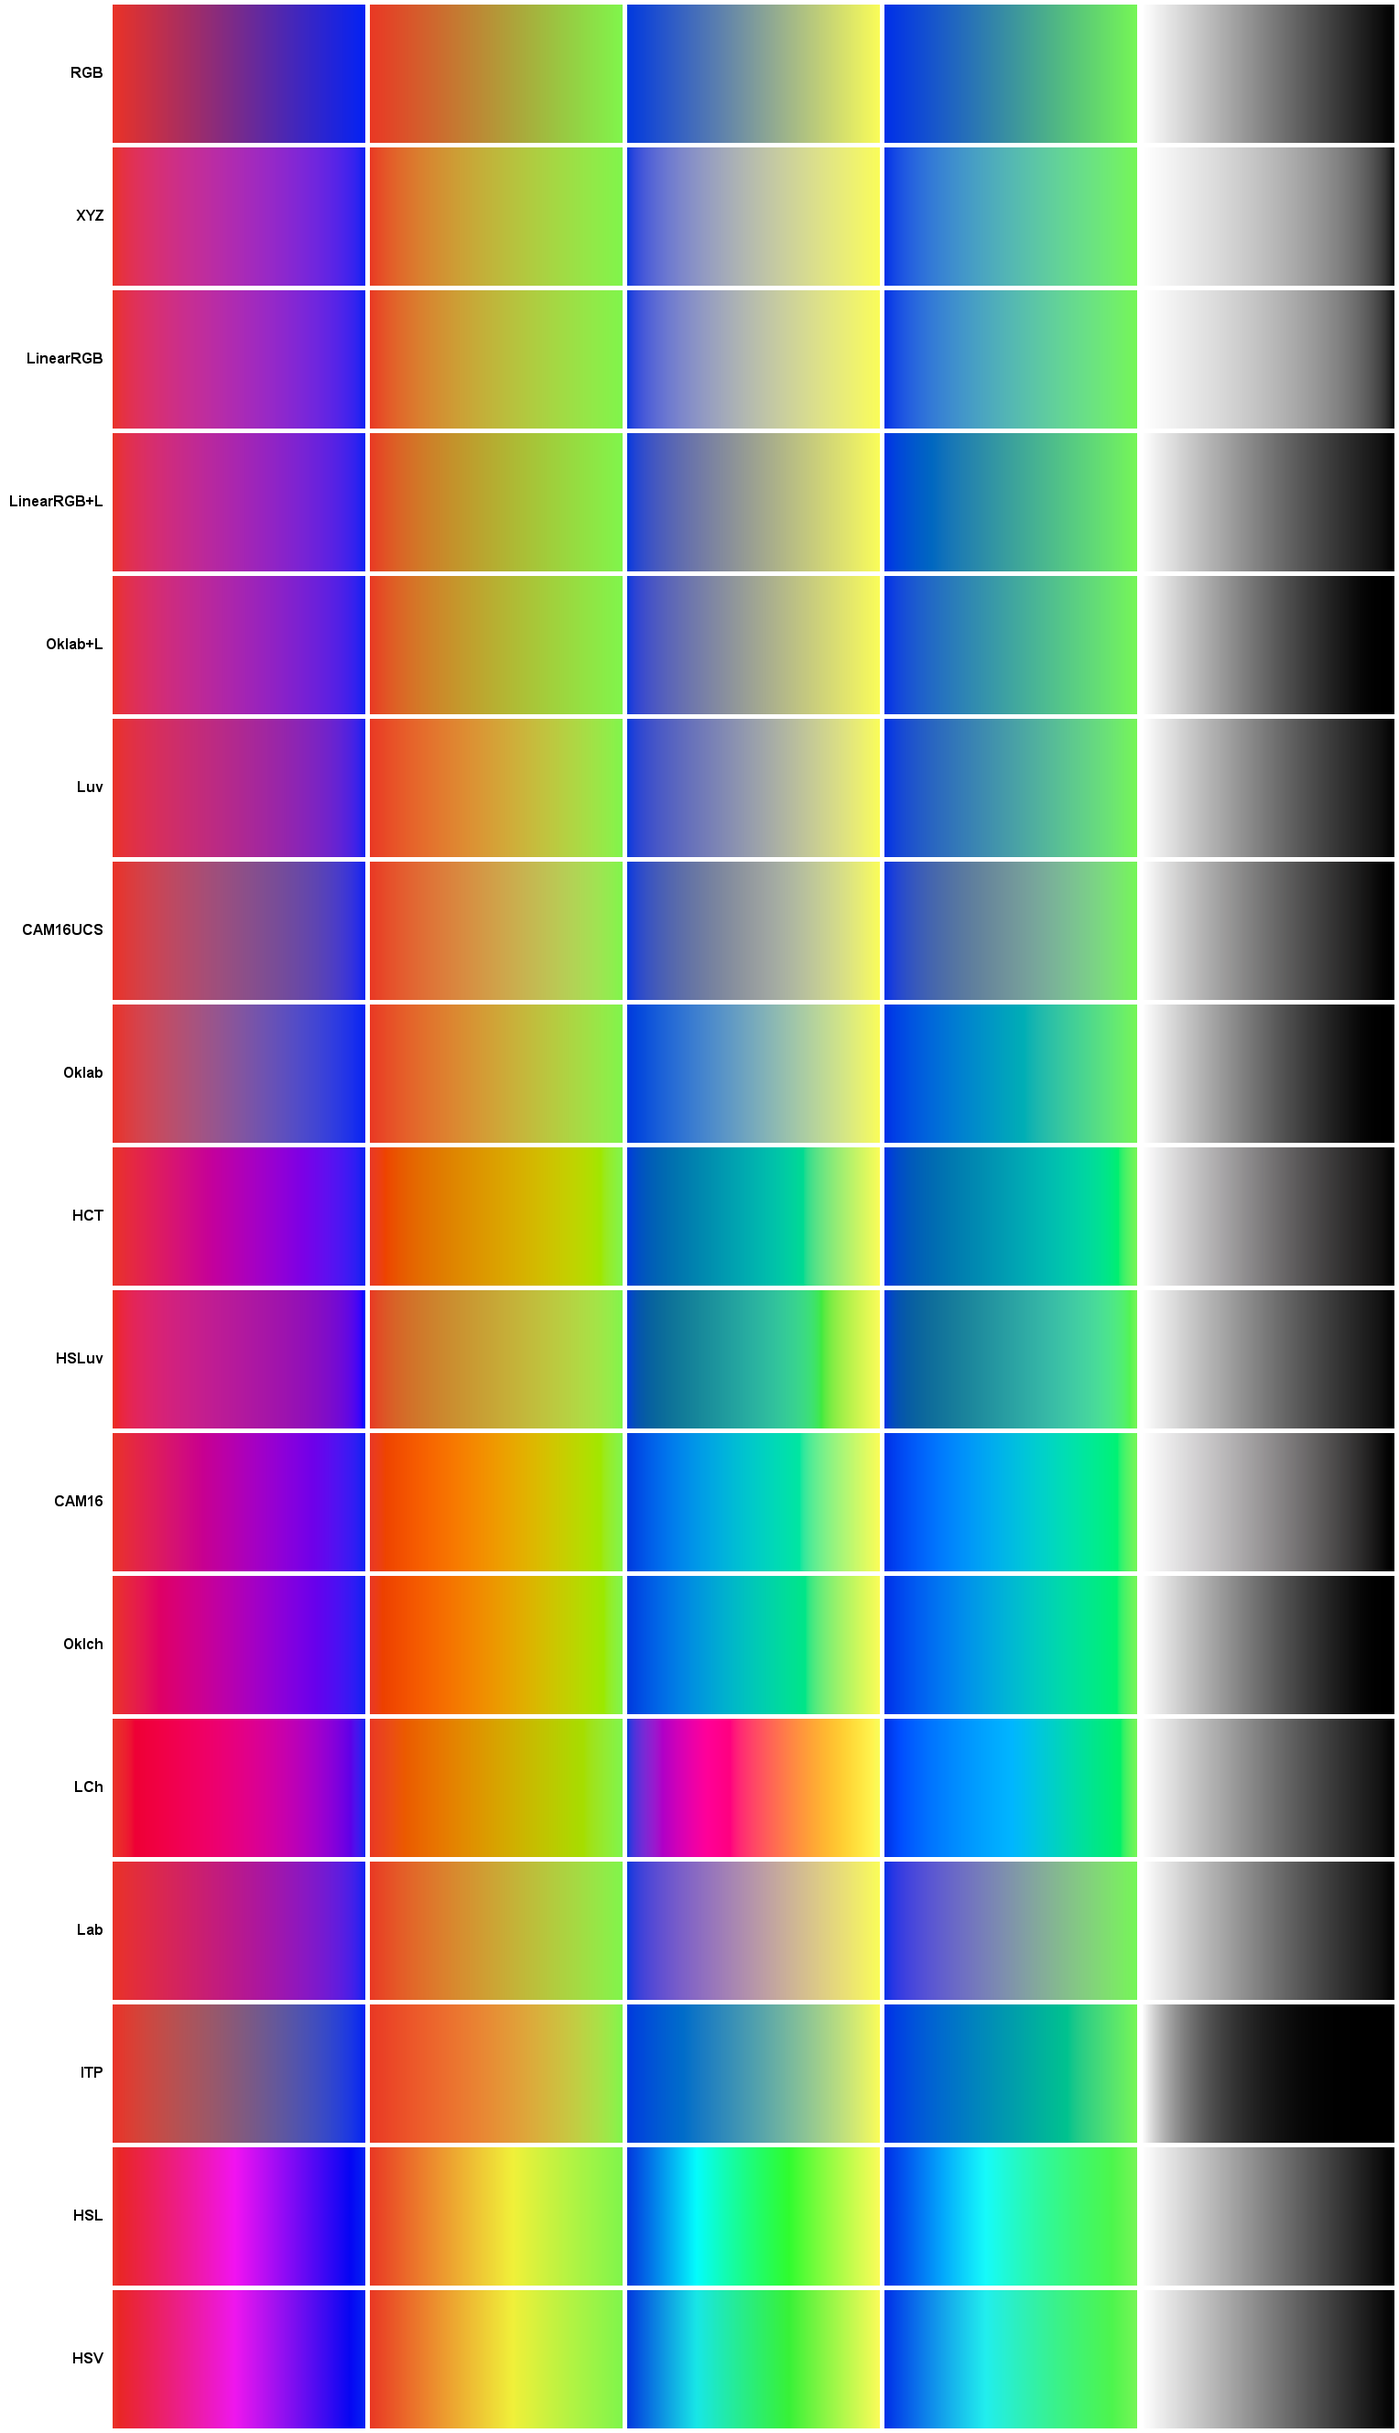
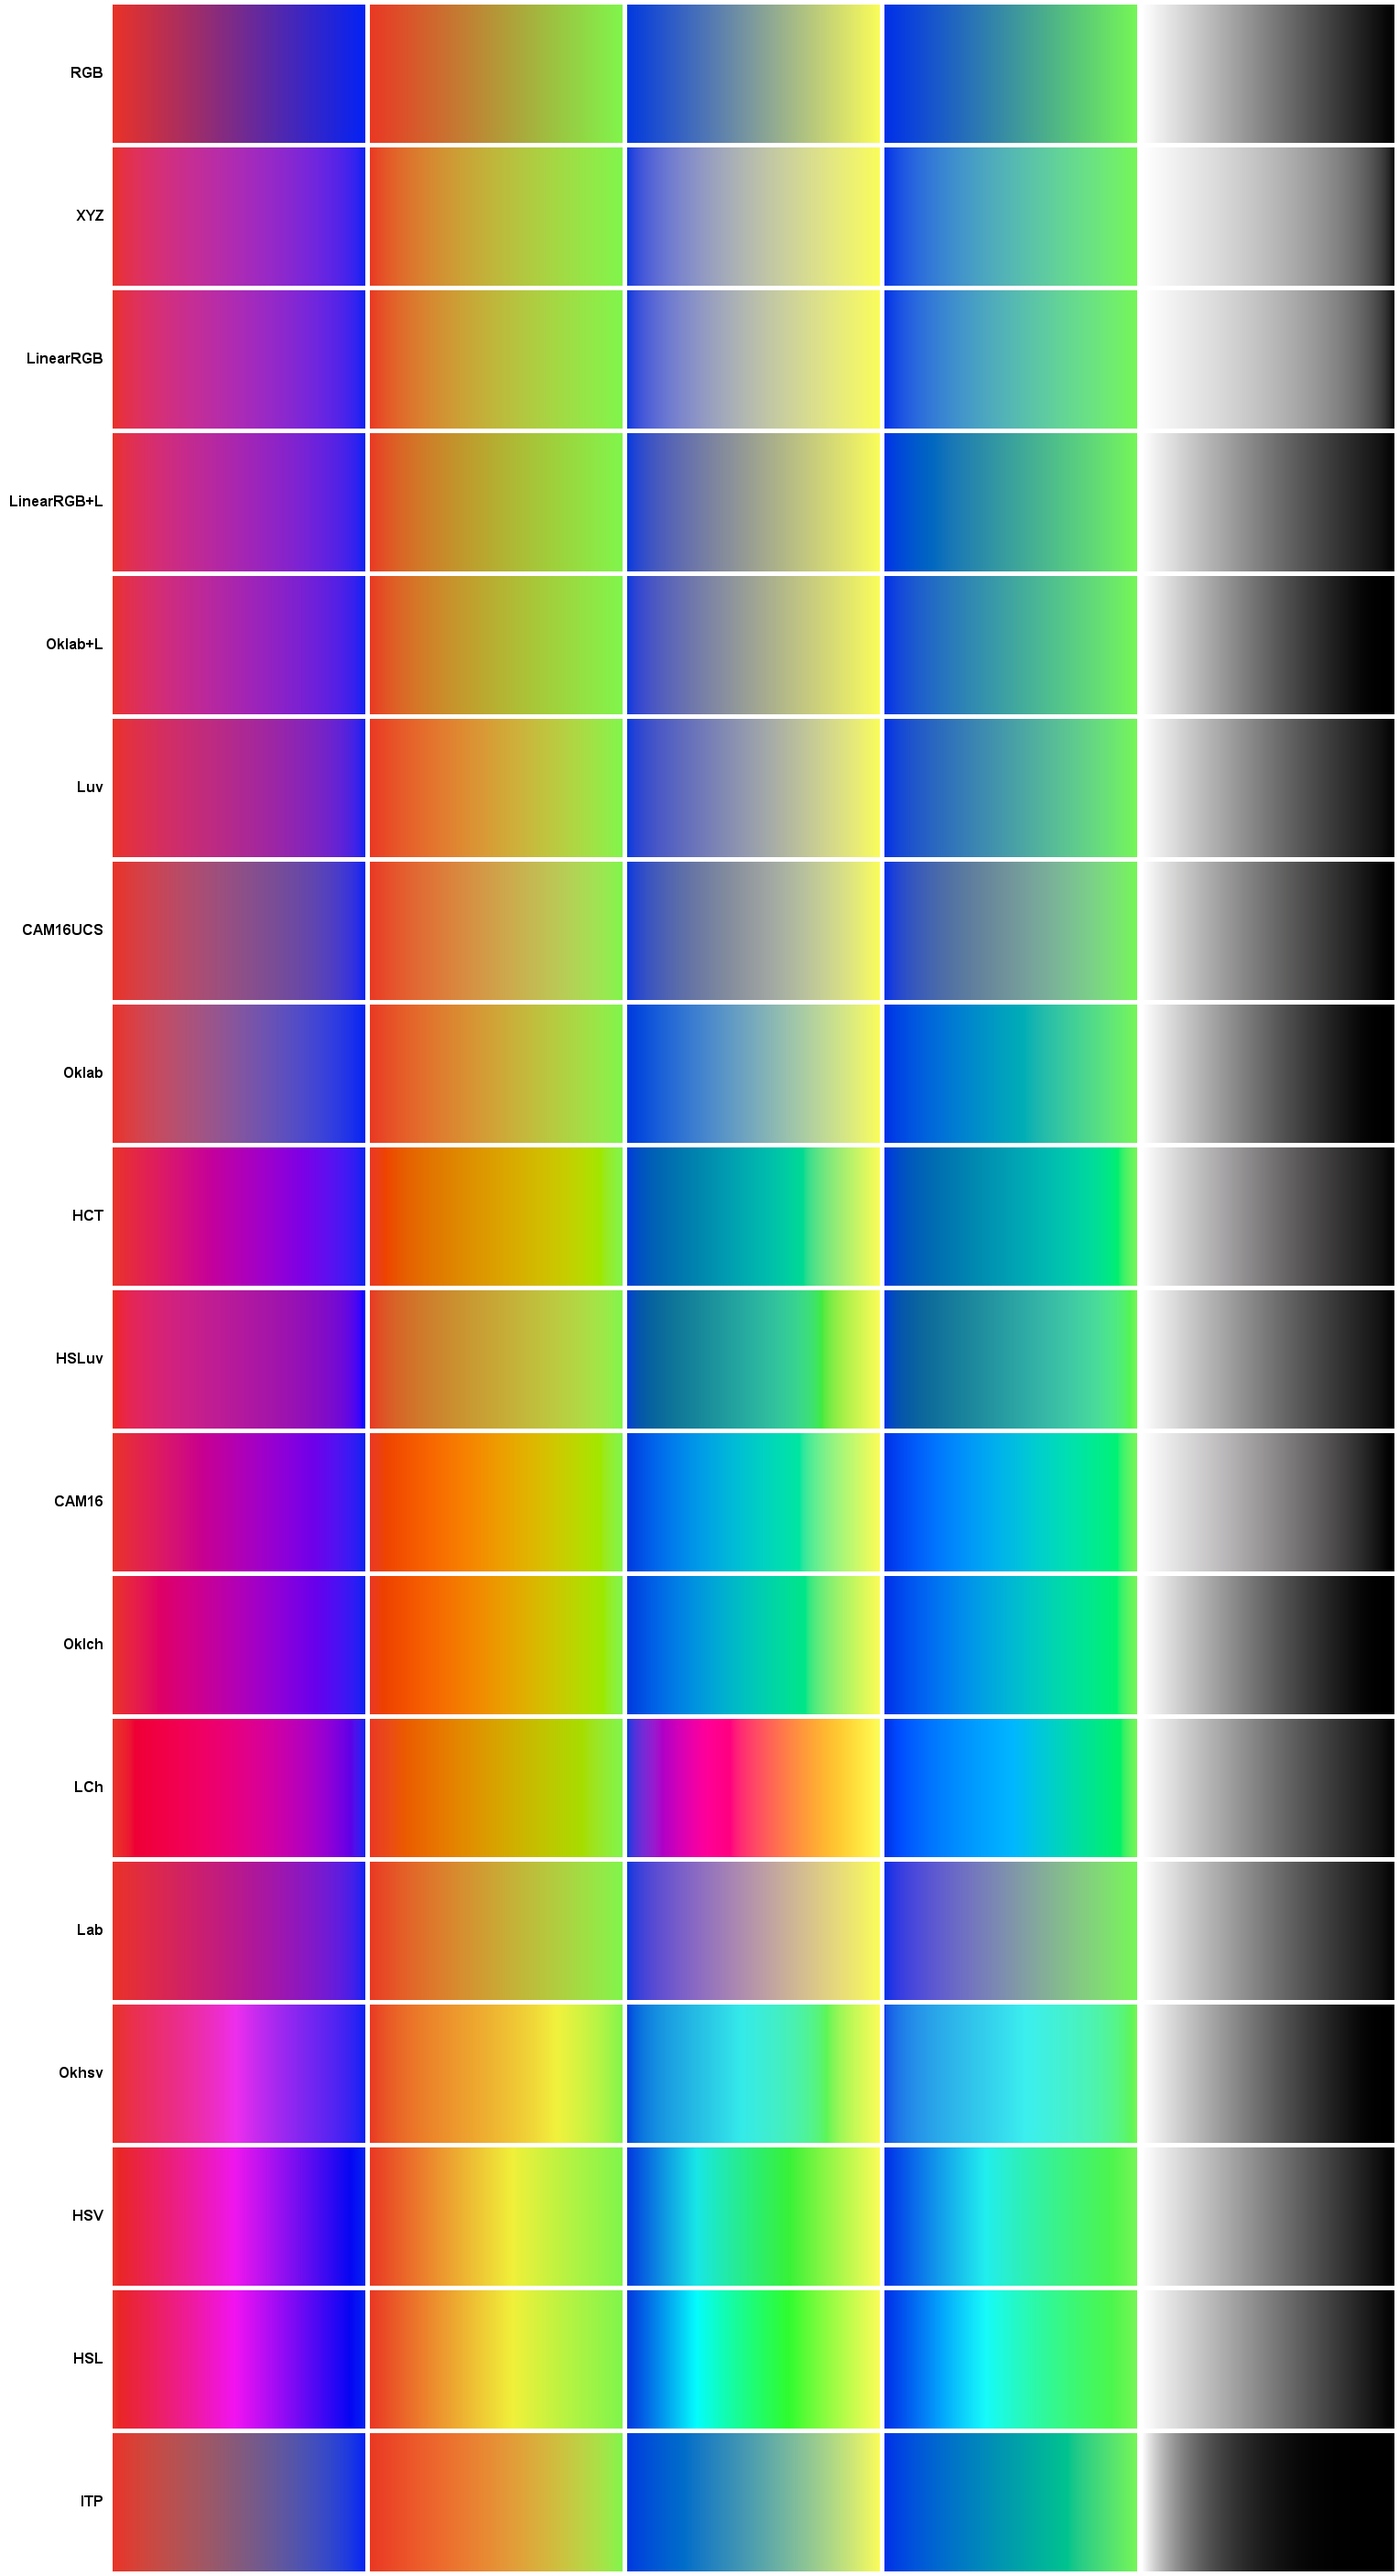
Added Okhsv to gradients.

diff --git a/test/com/esotericsoftware/colors/Gradients.java b/test/com/esotericsoftware/colors/Gradients.java
@@ -19,6 +19,7 @@ import com.esotericsoftware.colors.Colors.LCh;
 import com.esotericsoftware.colors.Colors.Lab;
 import com.esotericsoftware.colors.Colors.LinearRGB;
 import com.esotericsoftware.colors.Colors.Luv;
+import com.esotericsoftware.colors.Colors.Okhsv;
 import com.esotericsoftware.colors.Colors.Oklab;
 import com.esotericsoftware.colors.Colors.Oklch;
 import com.esotericsoftware.colors.Colors.RGB;
@@ -245,6 +246,14 @@ public class Gradients {
 			float P = lerp(c1.Cp(), c2.Cp(), t);
 			yield RGB(new ITP(I, T, P));
 		}
+		case "Okhsv" -> {
+			Okhsv c1 = Okhsv(from);
+			Okhsv c2 = Okhsv(to);
+			float h = lerpAngle(c1.h(), c2.h(), t);
+			float s = lerp(c1.s(), c2.s(), t);
+			float v = lerp(c1.v(), c2.v(), t);
+			yield RGB(new Okhsv(h, s, v));
+		}
 		default -> throw new RuntimeException(colorSpace);
 		};
 	}
@@ -307,9 +316,10 @@ public class Gradients {
 		config.colorSpaces.add("Oklch");
 		config.colorSpaces.add("LCh");
 		config.colorSpaces.add("Lab");
-		config.colorSpaces.add("ITP"); // Intended for HDR.
-		config.colorSpaces.add("HSL");
+		config.colorSpaces.add("Okhsv");
 		config.colorSpaces.add("HSV");
+		config.colorSpaces.add("HSL");
+		config.colorSpaces.add("ITP"); // Intended for HDR.
 
 		config.gradients.add(new Gradient(RGB(0xe93227), RGB(0x0422f3))); // Red to Blue
 		config.gradients.add(new Gradient(RGB(0xe93824), RGB(0x80f54b))); // Orange to Light Green

diff --git a/src/com/esotericsoftware/colors/Colors.java b/src/com/esotericsoftware/colors/Colors.java
@@ -342,14 +342,6 @@ public class Colors {
 		return new Luv(L, u, v);
 	}
 
-	static public LCHuv LCHuv (Luv luv) {
-		float L = luv.L, u = luv.u, v = luv.v;
-		float C = (float)Math.sqrt(u * u + v * v);
-		float H = C < EPSILON ? Float.NaN : (float)Math.atan2(v, u) * radDeg;
-		if (H < 0) H += 360;
-		return new LCHuv(L, C, H);
-	}
-
 	static public Luv Luv (LCHuv lch) {
 		float L = lch.L, C = lch.C, H = lch.H;
 		if (C < EPSILON || Float.isNaN(H)) return new Luv(L, 0, 0);
@@ -357,6 +349,14 @@ public class Colors {
 		float u = C * (float)Math.cos(rad);
 		float v = C * (float)Math.sin(rad);
 		return new Luv(L, u, v);
+	}
+
+	static public LCHuv LCHuv (Luv luv) {
+		float L = luv.L, u = luv.u, v = luv.v;
+		float C = (float)Math.sqrt(u * u + v * v);
+		float H = C < EPSILON ? Float.NaN : (float)Math.atan2(v, u) * radDeg;
+		if (H < 0) H += 360;
+		return new LCHuv(L, C, H);
 	}
 
 	static public LCh LCh (Lab Lab) {

diff --git a/README.md b/README.md
@@ -69,6 +69,8 @@ The code uses floats and is straightforward, without dependencies, making it eas
 - ITP (ICtCp/ITU-R BT.2100) - HDR and wide color gamut
 
 ### Gradient Interpolation
+This image shows a few gradients for some of the supported color spaces. Other color spaces aren't suitable for gradient visualization. It was generated by [Gradients.java](test/com/esotericsoftware/colors/Gradients.java).
+
 ![](gradients.png)
 
 ### Example Usage
